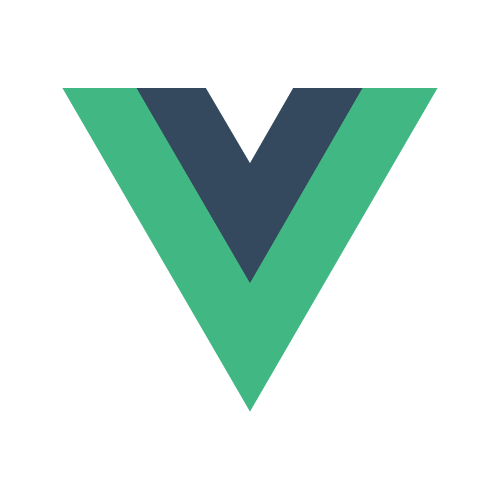
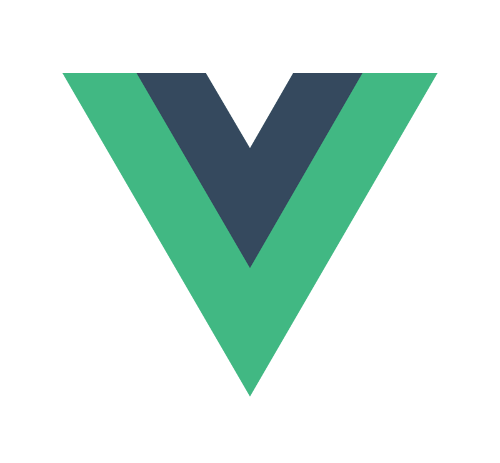
Correcciones "Nosotros"

diff --git a/static/css/nosotros.css b/static/css/nosotros.css
@@ -112,6 +112,6 @@ text-align: center;
   font-size: 19px;
 }
 .technology img{
-  height: 130px;
+  height: 120px;
   margin: 0 auto;
 }
